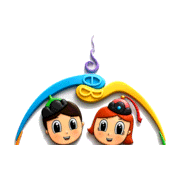
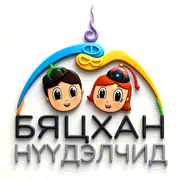
feat(brand): keep the drawn wordmark — client's decision
Yesterday's rename cropped the lettering out of everywhere it appeared, on the
grounds that "БЯЦХАН НҮҮДЭЛЧИД" drawn into the artwork could not sit beside an
`<h1>` reading "NomadKids". The client's answer is that the lettering stays and
the *text* goes.

That is coherent, and the two names are not in fact the same thing: NomadKids
is the platform, "Бяцхан нүүдэлчид" is the kindergarten it was built for. What
it costs is that no screen may set the product name in text beside the drawn
logo, so:

- `AuthShell` is the logo and no wordmark. Its `alt` carries the name, which is
  what a screen reader announces, so the accessible name is still right.
- `opengraph-image.png` reverts to the full logo over the strapline.
- The **sidebar** keeps "NomadKids" in text and therefore keeps `mark.png`, the
  lettering-free crop — it is the one place the two would otherwise meet.

**Every icon is regenerated from the square original**, background included:
favicon (48/32/16), `icon.png`, `apple-icon.png` and the three PWA icons. They
were cropped to the mark before, and the reason was real — at 16 px lettering
is four grey smudges — so the trade-off was put to the client with a rendered
comparison of both. They chose the full logo everywhere; that exchange is
recorded in `docs/BRAND_ASSETS.md` rather than dropped, along with the recipes.

★ The card's logo went from 54 px to 76. At 54 the lettering was a coloured
[…]

diff --git a/apps/web/components/shell/auth-shell.tsx b/apps/web/components/shell/auth-shell.tsx
@@ -29,39 +29,42 @@ export function AuthShell({ children }: { children: ReactNode }) {
           column and the inputs run off the right edge.
         */}
         <main className="w-full max-w-[440px] rounded-card border border-border bg-surface px-7 py-8 [overflow-wrap:anywhere] min-[900px]:shadow-sm">
+          {/*
+            ★ The drawn logo carries the name; no wordmark is set beside it.
+
+            `logo.png` has "БЯЦХАН НҮҮДЭЛЧИД" lettered into the artwork. Setting
+            "NomadKids" next to it would put two names for one product on the
+            first screen anybody sees, so the heading below is the logo itself —
+            `alt` is what a screen reader announces, and it is the only place
+            the name appears in text here.
+
+            ★★ Client's decision, 2026-09-06: keep the lettering. The
+            alternative was `mark.png`, the same illustration with none.
+          */}
           <div className="mb-[22px] flex items-center gap-3.5">
             {/*
-              ★ `/mark.png`, not `/logo.png`, since the rename on 2026-09-06.
-              
-              `logo.png` has "БЯЦХАН НҮҮДЭЛЧИД" drawn into the artwork, so it
-              would now sit directly beside an `<h1>` reading "NomadKids" —
-              two different names for one product, on the first screen anybody
-              sees. `mark.png` is the same illustration with no lettering, and
-              the wordmark beside it is the name.
+              ★ 76, not the 54 this was while the name sat beside it in text.
+
+              The lettering is part of the artwork now, so the logo has to be
+              big enough for it to resolve — at 54 it was a coloured smudge over
+              two grey lines. 76 is the width at which "БЯЦХАН" reads on a 1×
+              display, and it is what the card's own left column can hold
+              without pushing the sentence beside it onto a fourth line.
             */}
-            <Image
-              src="/mark.png"
-              alt={BRAND}
-              width={54}
-              height={39}
-              className="w-[54px] shrink-0"
-              style={{ height: "auto" }}
-              priority
-            />
-            <div>
-              {/*
-                ★ No `uppercase`. It was there for "Бяцхан нүүдэлчид", where
-                Cyrillic caps read as a wordmark; applied to "NomadKids" it
-                produces "NOMADKIDS" and destroys the camel case that *is* the
-                brand's spelling — the one the domain and the invoices use.
-              */}
-              <h1 className="text-title font-semibold leading-[1.3] tracking-[.01em] text-ink">
-                {BRAND}
-              </h1>
-              <p className="mt-1 text-compact leading-snug text-muted">
-                Багш, эцэг эх, администраторт зориулсан аюулгүй нэвтрэх систем.
-              </p>
-            </div>
+            <h1 className="shrink-0">
+              <Image
+                src="/logo.png"
+                alt={BRAND}
+                width={76}
+                height={82}
+                className="w-[76px]"
+                style={{ height: "auto" }}
+                priority
+              />
+            </h1>
+            <p className="text-compact leading-snug text-muted">
+              Багш, эцэг эх, администраторт зориулсан аюулгүй нэвтрэх систем.
+            </p>
           </div>
 
           {children}
@@ -85,30 +88,23 @@ export function AuthShell({ children }: { children: ReactNode }) {
             ★ This was capped at 210px, and the cap was a workaround, not a
             design: the old `/logo-160.png` was 149px wide, so 380 rendered
             visibly soft and a blurred logo on the first screen anyone sees is
-            worse than a small sharp one. The cap is gone.
+            worse than a small sharp one. `/logo.png` is regenerated from the
+            1254² original, so the cap has nothing left to protect against.
+            300 on a 2× display asks for 600 source pixels; there are 1071.
 
-            ★★ `/mark.png` since the rename — the lettering in `/logo.png` says
-            "БЯЦХАН НҮҮДЭЛЧИД", which is now a different product's name. The
-            wordmark below carries the name instead, in text, where it can be
-            read by a screen reader and changed without an image editor.
-
-            300 wide on a 2× display asks for 600 source pixels; `mark.png` has
-            512, so it renders at 256 CSS px sharp. The panel is decorative and
-            `aria-hidden`, so the size is a judgement about how it looks rather
-            than about what it tells anybody.
+            ★★ No wordmark under it either — the lettering is in the artwork,
+            and this panel is `aria-hidden`, so a name repeated here would be
+            decoration that says the same thing twice.
           */}
           <Image
-            src="/mark.png"
+            src="/logo.png"
             alt=""
             width={300}
-            height={219}
+            height={322}
             className="mx-auto w-[300px] max-w-full"
             style={{ height: "auto" }}
           />
-          <p className="mt-5 text-display font-semibold tracking-[.01em] text-ink">{BRAND}</p>
-          {/* Tight under the wordmark: the two read as one block, name then
-              promise, rather than as two competing headings. */}
-          <p className="mt-2.5 text-title font-semibold text-ink">Хүүхэд бүрийн хөгжлийн түүх</p>
+          <p className="mt-6 text-title font-semibold text-ink">Хүүхэд бүрийн хөгжлийн түүх</p>
           <p className="mx-auto mt-2.5 max-w-[34ch] text-body leading-relaxed text-muted">
             Багшийн ажиглалт, эцэг эхийн оролцоо, улирлын үнэлгээ — бүгд нэг дор, хүүхэд тус бүрийн
             цахим хувийн хавтаст.

diff --git a/docs/BRAND_ASSETS.md b/docs/BRAND_ASSETS.md
@@ -36,26 +36,33 @@ magick full.png -crop 1071x746+0+0 +repage -trim +repage mark.png   # 1024 × 74
 sit directly on the tops of `БЯЦХАН` — there is no gap. A crop at 790 takes the
 letter tops with it; one at 700 cuts the chins off.
 
-★★ **The wordmark is cropped out of every icon.** At 16 px — the size that
-actually appears in a browser tab — lettering is four grey smudges. The arc and
-the two faces still read as this product.
+★★ **The wordmark used to be cropped out of every icon, and no longer is —
+client's decision, 2026-09-06.**
 
-★★★ **The drawn wordmark is now used nowhere at all — 2026-09-06.**
+The technical argument for cropping was real, and is recorded here rather than
+quietly dropped: at 16 px, the size that actually appears in a browser tab,
+lettering is four grey smudges, while the arc and the two faces read as this
+product on their own. It was put to the client with a rendered comparison of
+both; they chose the full logo, background and all, everywhere.
 
-The product was renamed from "Бяцхан нүүдэлчид" to **NomadKids**, and the
-lettering baked into `logo.png` says the old name. That artwork therefore
-cannot appear anywhere the new name also appears, which is everywhere: the two
-together read as two products.
+So every icon is generated from the **square original** rather than from a
+crop. The source is `docs/spikes/pdf/assets/photo-9.jpg` — 1400², lettering
+included, on the artwork's own near-white ground. That it lives in a spikes
+folder is historical, not deliberate; point the recipes below at a cleaner
+original if one ever lands.
 
-So both places that used it changed to `mark.png`, which is the same
-illustration with no lettering, and the name is set in **text** beside it —
-`AuthShell`, and `opengraph-image.png`, which is now composed rather than
-cropped. Text is the better home for a name regardless: a screen reader can
-read it, and the next rename is a string rather than an image editor.
+★★★ **The product name and the drawn lettering disagree, on purpose.**
 
-`public/logo.png` is kept, unused, because it is the only rendering of the
-original artwork at full size and a replacement wordmark will want it for
-reference. **Do not reintroduce it into a screen** without new lettering.
+The product is **NomadKids**; the logo says "Бяцхан нүүдэлчид". They are not
+the same thing — NomadKids is the platform, that is the kindergarten it was
+built for — and the client wants the drawn wordmark kept.
+
+The cost is that no screen may set "NomadKids" in text _beside_ the drawn logo:
+two names side by side read as two products. So `AuthShell` shows the logo and
+no wordmark — its `alt` carries the name, which is what a screen reader
+announces — and `opengraph-image.png` is the logo over the strapline. The
+sidebar is the one place the name appears as text, and it uses `mark.png`, the
+lettering-free crop, precisely so that the two never meet.
 
 ## What is generated, and why each one differs
 
@@ -64,40 +71,43 @@ reference. **Do not reintroduce it into a screen** without new lettering.
 | `app/favicon.ico`                   | 48, 32, 16  | transparent        | The URL crawlers, feed readers and old browsers request without being told to. Next's middleware matcher already names it                                                                                    |
 | `app/icon.png`                      | 512²        | transparent        | `<link rel="icon">`. Transparent so it reads on a light **and** a dark tab strip — the mark's own blue and yellow carry it either way                                                                        |
 | `app/apple-icon.png`                | 180²        | **opaque white**   | iOS composites alpha onto black. A transparent apple-touch-icon is a black tile with two faces floating in it                                                                                                |
-| `app/opengraph-image.png`           | 1200 × 630  | white on `#eff6ff` | Link previews. **Composed, not cropped** since the rename: `mark.png` at 260 wide over a rounded white card, with "NomadKids" and the strapline set in Helvetica. Regenerate with the recipe below           |
+| `app/opengraph-image.png`           | 1200 × 630  | white on `#eff6ff` | Link previews. The full logo over the strapline — **no "NomadKids" wordmark**, which would put two names in one image                                                                                        |
 | `public/icons/pwa-192.png`          | 192²        | opaque white       | manifest, `purpose: "any"`                                                                                                                                                                                   |
 | `public/icons/pwa-512.png`          | 512²        | opaque white       | manifest, `purpose: "any"`                                                                                                                                                                                   |
 | `public/icons/pwa-maskable-512.png` | 512²        | opaque white       | manifest, `purpose: "maskable"` — **the mark is drawn at 70% width**, inside the safe zone an Android launcher's circular crop leaves. The `any` icons fill their square and would lose both ends of the arc |
-| `public/logo.png`                   | 1071 × 1149 | transparent        | **Unused since 2026-09-06** — its drawn wordmark says the old name. Kept as the reference rendering of the original artwork                                                                                  |
-| `public/mark.png`                   | 512 × 373   | transparent        | The sidebar tile                                                                                                                                                                                             |
+| `public/logo.png`                   | 1071 × 1149 | transparent        | The auth screen — both the card's heading and the decorative panel. Transparent, because it sits on two different grounds                                                                                    |
+| `public/mark.png`                   | 512 × 373   | transparent        | The sidebar tile — **the one place with no lettering**, because the sidebar sets "NomadKids" in text beside it                                                                                               |
 
-### Regenerating the link preview
+### Regenerating the icons
+
+All six come from the square original, which needs no cropping — it is already
+tightly framed.
 
 ```bash
 cd apps/web
-magick -size 1120x550 xc:none -fill white \
-  -draw 'roundrectangle 0,0 1119,549 28,28' /tmp/card.png
-magick -size 1200x630 xc:'#eff6ff' /tmp/card.png -geometry +40+40 -composite /tmp/base.png
+SRC=../../docs/spikes/pdf/assets/photo-9.jpg
 
-magick /tmp/base.png \
-  \( public/mark.png -resize 260x \) -gravity north -geometry +0+120 -composite \
-  -font Helvetica-Bold -pointsize 62 -fill '#0f172a' -gravity north -annotate +0+338 'NomadKids' \
-  -font Helvetica-Bold -pointsize 42 -fill '#0f172a' -gravity north -annotate +0+424 'Хүүхэд бүрийн хөгжлийн түүх' \
-  -font Helvetica -pointsize 27 -fill '#64748b' -gravity north \
-  -annotate +0+494 'Багшийн ажиглалт · эцэг эхийн оролцоо · улирлын үнэлгээ' \
-  /tmp/og.png
+magick "$SRC" -resize 512x512 -strip PNG24:app/icon.png
+magick "$SRC" -resize 180x180 -strip PNG24:app/apple-icon.png
+magick "$SRC" -resize 192x192 -strip PNG24:public/icons/pwa-192.png
+magick "$SRC" -resize 512x512 -strip PNG24:public/icons/pwa-512.png
 
-magick /tmp/og.png -dither FloydSteinberg -colors 256 \
-  -strip -define png:compression-level=9 PNG8:app/opengraph-image.png
+# maskable: 70% of the square, so an Android launcher's circular crop
+# cannot take the arc's ends or the descenders with it
+magick "$SRC" -resize 358x358 -background white -gravity center \
+  -extent 512x512 -strip PNG24:public/icons/pwa-maskable-512.png
+
+# favicon carries three sizes in one file
+magick "$SRC" \( -clone 0 -resize 48x48 \) \( -clone 0 -resize 32x32 \) \
+  \( -clone 0 -resize 16x16 \) -delete 0 app/favicon.ico
 ```
 
-★ **Helvetica, not the app's own type.** The web app sets no webfont — it uses
-the system stack — so there is no project font file to point ImageMagick at,
-and Helvetica is what a Mac renders that stack as. It also covers Cyrillic,
-which is the constraint that rules most candidates out.
+★ **No transparency.** The original's ground is part of what the client chose,
+and an opaque icon also settles the apple-touch-icon problem for free: iOS
+composites alpha onto black, so a transparent one is a black tile.
 
 ★★ Keep `opengraph-image.alt.txt` in step. It is what a screen reader announces
-in place of this image, and it names the product.
+in place of that image, and it names both the product and the lettering.
 
 The OpenGraph type is set in `app/layout.tsx`; the manifest in `app/manifest.ts`.
 Neither lists the icon files — `favicon.ico`, `icon.png` and `apple-icon.png` are
